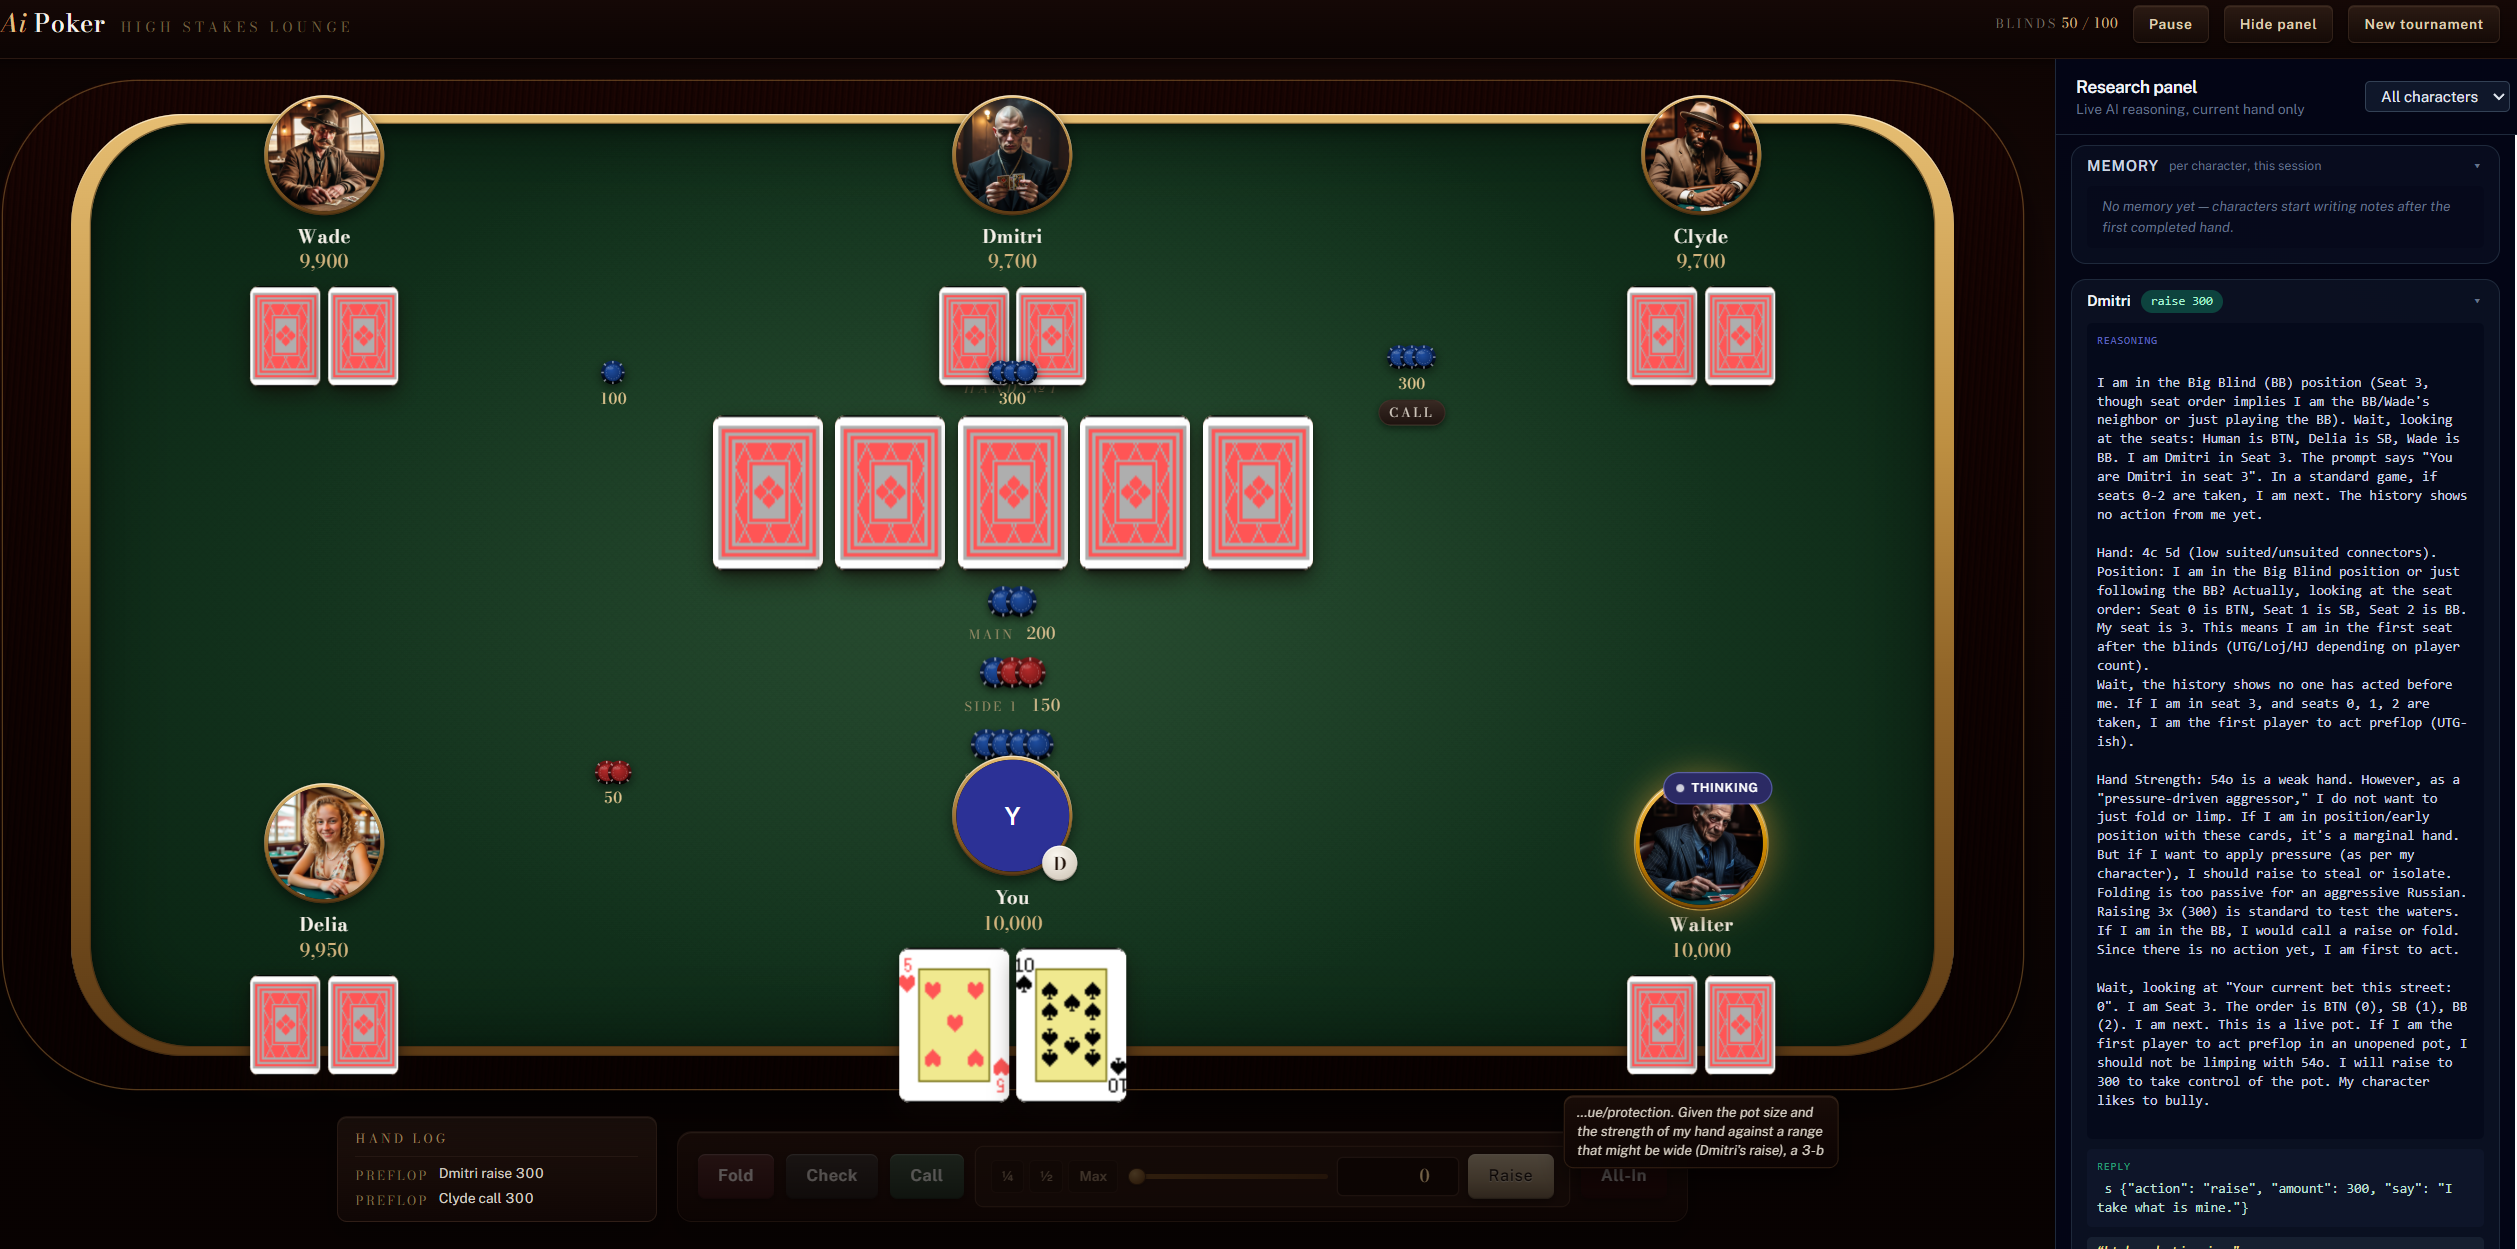
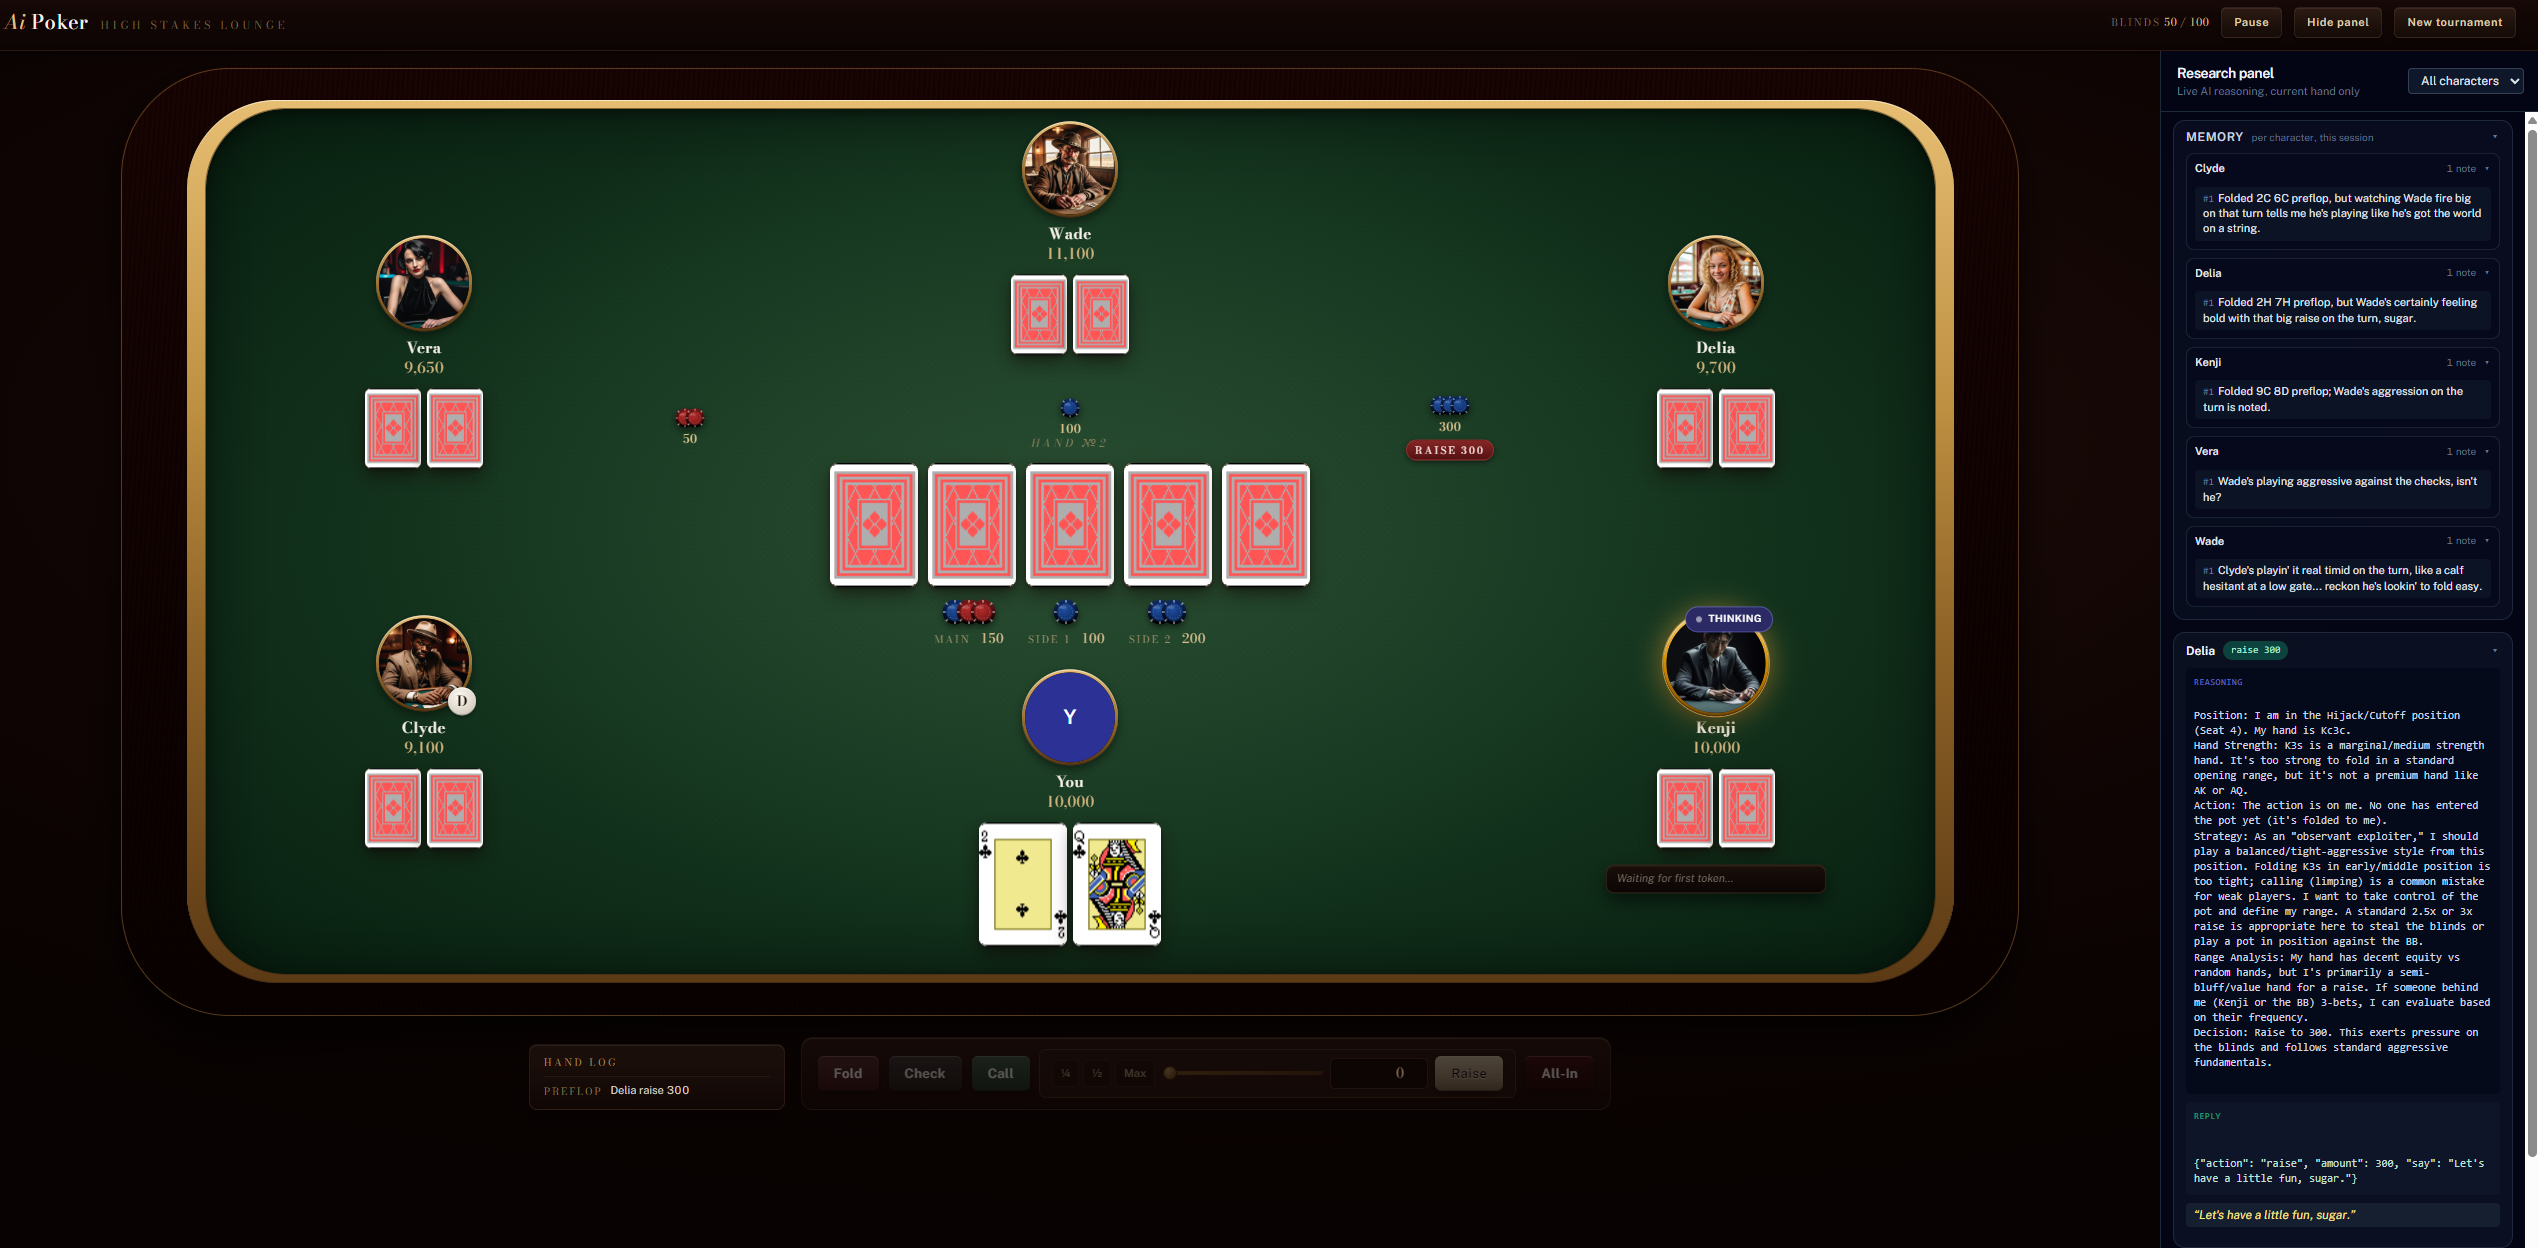
Redesign poker table layout to fix overlap and scaling
- Replace even-perimeter seat placement with hand-tuned presets
  for 2-10 players. Seats live only on the long top/bottom edges
  and short side edges — never in corners — modelled on real
  race-track casino tables. Each seat carries its own bet-chip
  position rather than computing it radially, so top-edge bets
  no longer collide with their own hole cards.
- Reserve the centre band (y ∈ [40, 64]) exclusively for the
  community cards, pot display, and winner banner. No seat or
  bet encroaches.
- Add uniform CSS-transform scaling driven by ResizeObserver:
  the inner table is laid out on a fixed 1900×950 canvas and
  scaled to fit. Cards, chips, portraits, and seat positions
  now shrink together on smaller viewports instead of fixed-
  pixel children overflowing a fluid container.
- PotDisplay: lay multiple pots out horizontally (flex-row,
  items-end) so main + side pots span the wide centre band
  instead of stacking downward into the bottom-centre seat.
- Update live-hand screenshot and README caption to reflect
  the new layout and the visible per-character Memory section.

diff --git a/src/components/Table.vue b/src/components/Table.vue
@@ -1,5 +1,5 @@
 <script setup>
-import { computed, ref, watch } from 'vue'
+import { computed, onBeforeUnmount, onMounted, ref, watch } from 'vue'
 import Seat from './Seat.vue'
 import Card from './Card.vue'
 import PotDisplay from './PotDisplay.vue'
@@ -24,68 +24,145 @@ const orderedPlayers = computed(() => {
   return [...players.slice(humanIdx), ...players.slice(0, humanIdx)]
 })
 
-// Place seats evenly around the perimeter of a rounded-rectangle table, with index 0
-// (the human) anchored at bottom-centre and remaining seats walking counter-clockwise.
-// Spacing is in *pixel* terms (vertical edges weighted by 1/ASPECT) so adjacent seats
-// land the same physical distance apart whether they're on a long edge or a short one.
-const SEAT_INSET = 16          // % from table edge to the seat arc on all sides
-const TABLE_ASPECT = 2         // table width / height — keep in sync with the aspect-[2/1] class
-function seatPos(index, total) {
-  const L = SEAT_INSET, R = 100 - SEAT_INSET, T = SEAT_INSET, B = 100 - SEAT_INSET
-  const horizHalf = (R - L) / 2          // bottom (and top) half-edge length in width-%
-  const vertEdge = (B - T) / TABLE_ASPECT // side length converted to width-equivalent %
-  const topEdge  = (R - L)
-  const perimeter = horizHalf * 2 + vertEdge * 2 + topEdge
-
-  const d = (index / total) * perimeter
-  let x, y
-  if (d <= horizHalf) {
-    // bottom edge, centre → left
-    x = 50 - d; y = B
-  } else if (d <= horizHalf + vertEdge) {
-    // left edge, bottom → top
-    x = L; y = B - (d - horizHalf) * TABLE_ASPECT
-  } else if (d <= horizHalf + vertEdge + topEdge) {
-    // top edge, left → right
-    x = L + (d - horizHalf - vertEdge); y = T
-  } else if (d <= horizHalf + vertEdge + topEdge + vertEdge) {
-    // right edge, top → bottom
-    x = R; y = T + (d - horizHalf - vertEdge - topEdge) * TABLE_ASPECT
-  } else {
-    // bottom edge, right → centre
-    x = R - (d - horizHalf - vertEdge - topEdge - vertEdge); y = B
-  }
-  return { x, y }
+// Hand-tuned seat layouts per player count, modelled on real race-track poker
+// tables: seats live only on the long top/bottom edges and the short side edges —
+// never in the corners — and the central band y ∈ [40, 64] is reserved for the
+// community cards, pot display, and winner banner. Each entry holds the seat
+// position (x, y), the bet-chip position (bx, by) placed between the seat and
+// that reserved centre band, and an anchor that drives speech-bubble direction.
+// Seat 0 is always the human at bottom-centre; remaining seats walk counter-
+// clockwise (bottom-left → left → top → right → bottom-right). All numbers are
+// percentages of the 1900×950 design canvas (see TABLE_W / TABLE_H below).
+const LAYOUTS = {
+  2: [
+    { x: 50, y: 78, bx: 50, by: 70, anchor: 'side' },
+    { x: 50, y: 18, bx: 50, by: 37, anchor: 'top'  },
+  ],
+  3: [
+    { x: 50, y: 78, bx: 50, by: 70, anchor: 'side' },
+    { x: 22, y: 22, bx: 34, by: 37, anchor: 'top'  },
+    { x: 78, y: 22, bx: 66, by: 37, anchor: 'top'  },
+  ],
+  4: [
+    { x: 50, y: 78, bx: 50, by: 70, anchor: 'side' },
+    { x: 14, y: 50, bx: 28, by: 50, anchor: 'side' },
+    { x: 50, y: 18, bx: 50, by: 37, anchor: 'top'  },
+    { x: 86, y: 50, bx: 72, by: 50, anchor: 'side' },
+  ],
+  5: [
+    { x: 50, y: 78, bx: 50, by: 70, anchor: 'side' },
+    { x: 18, y: 68, bx: 30, by: 64, anchor: 'side' },
+    { x: 24, y: 22, bx: 36, by: 37, anchor: 'top'  },
+    { x: 76, y: 22, bx: 64, by: 37, anchor: 'top'  },
+    { x: 82, y: 68, bx: 70, by: 64, anchor: 'side' },
+  ],
+  6: [
+    { x: 50, y: 78, bx: 50, by: 70, anchor: 'side' },
+    { x: 16, y: 70, bx: 30, by: 64, anchor: 'side' },
+    { x: 16, y: 30, bx: 30, by: 38, anchor: 'side' },
+    { x: 50, y: 18, bx: 50, by: 37, anchor: 'top'  },
+    { x: 84, y: 30, bx: 70, by: 38, anchor: 'side' },
+    { x: 84, y: 70, bx: 70, by: 64, anchor: 'side' },
+  ],
+  7: [
+    { x: 50, y: 78, bx: 50, by: 70, anchor: 'side' },
+    { x: 22, y: 72, bx: 33, by: 66, anchor: 'side' },
+    { x: 13, y: 44, bx: 25, by: 46, anchor: 'side' },
+    { x: 30, y: 20, bx: 38, by: 37, anchor: 'top'  },
+    { x: 70, y: 20, bx: 62, by: 37, anchor: 'top'  },
+    { x: 87, y: 44, bx: 75, by: 46, anchor: 'side' },
+    { x: 78, y: 72, bx: 67, by: 66, anchor: 'side' },
+  ],
+  8: [
+    { x: 50, y: 78, bx: 50, by: 70, anchor: 'side' },
+    { x: 22, y: 74, bx: 33, by: 67, anchor: 'side' },
+    { x: 12, y: 50, bx: 24, by: 50, anchor: 'side' },
+    { x: 22, y: 22, bx: 33, by: 38, anchor: 'top'  },
+    { x: 50, y: 18, bx: 50, by: 37, anchor: 'top'  },
+    { x: 78, y: 22, bx: 67, by: 38, anchor: 'top'  },
+    { x: 88, y: 50, bx: 76, by: 50, anchor: 'side' },
+    { x: 78, y: 74, bx: 67, by: 67, anchor: 'side' },
+  ],
+  9: [
+    { x: 50, y: 78, bx: 50, by: 70, anchor: 'side' },
+    { x: 25, y: 75, bx: 34, by: 68, anchor: 'side' },
+    { x: 13, y: 55, bx: 25, by: 53, anchor: 'side' },
+    { x: 14, y: 28, bx: 26, by: 38, anchor: 'side' },
+    { x: 36, y: 18, bx: 42, by: 37, anchor: 'top'  },
+    { x: 64, y: 18, bx: 58, by: 37, anchor: 'top'  },
+    { x: 86, y: 28, bx: 74, by: 38, anchor: 'side' },
+    { x: 87, y: 55, bx: 75, by: 53, anchor: 'side' },
+    { x: 75, y: 75, bx: 66, by: 68, anchor: 'side' },
+  ],
+  10: [
+    { x: 50, y: 78, bx: 50, by: 70, anchor: 'side' },
+    { x: 26, y: 75, bx: 34, by: 68, anchor: 'side' },
+    { x: 12, y: 56, bx: 24, by: 54, anchor: 'side' },
+    { x: 12, y: 32, bx: 24, by: 38, anchor: 'side' },
+    { x: 28, y: 19, bx: 36, by: 37, anchor: 'top'  },
+    { x: 50, y: 17, bx: 50, by: 36, anchor: 'top'  },
+    { x: 72, y: 19, bx: 64, by: 37, anchor: 'top'  },
+    { x: 88, y: 32, bx: 76, by: 38, anchor: 'side' },
+    { x: 88, y: 56, bx: 76, by: 54, anchor: 'side' },
+    { x: 74, y: 75, bx: 66, by: 68, anchor: 'side' },
+  ],
 }
 
-// Top-edge seats get the speech bubble flipped to below the portrait so it doesn't
-// fly off the table. Side and bottom seats keep the default above-portrait bubble.
+function getSeat(index, total) {
+  const layout = LAYOUTS[total] ?? LAYOUTS[10]
+  return layout[index] ?? layout[layout.length - 1]
+}
+
+function seatPos(index, total) {
+  const s = getSeat(index, total)
+  return { x: s.x, y: s.y }
+}
+
 function seatAnchor(index, total) {
-  const { y } = seatPos(index, total)
-  return y < 22 ? 'top' : 'side'
+  return getSeat(index, total).anchor
 }
 
 function seatStyle(index, total) {
-  const { x, y } = seatPos(index, total)
+  const s = getSeat(index, total)
   return {
-    left: `${x}%`,
-    top: `${y}%`,
+    left: `${s.x}%`,
+    top: `${s.y}%`,
     transform: 'translate(-50%, -50%)',
   }
 }
 
-// Bet chips sit between each seat and the table centre (along the radial),
-// so each player has their committed chips visible in front of them.
-const BET_RADIAL_OFFSET = 0.42 // 0 = at seat, 1 = at centre
 function betStyle(index, total) {
-  const { x, y } = seatPos(index, total)
-  const cx = 50, cy = 50
+  const s = getSeat(index, total)
   return {
-    left: `${x + (cx - x) * BET_RADIAL_OFFSET}%`,
-    top: `${y + (cy - y) * BET_RADIAL_OFFSET}%`,
+    left: `${s.bx}%`,
+    top: `${s.by}%`,
     transform: 'translate(-50%, -50%)',
   }
 }
+
+// Uniform scaling: the inner table is laid out on a fixed 1900×950 canvas and
+// scaled with a single CSS transform so every child (portraits, cards, chips)
+// shrinks together instead of overflowing the felt on smaller viewports.
+const TABLE_W = 1900
+const TABLE_H = 950
+const tableHostRef = ref(null)
+const tableScale = ref(1)
+let tableResizeObserver = null
+function updateTableScale() {
+  if (!tableHostRef.value) return
+  const rect = tableHostRef.value.getBoundingClientRect()
+  if (!rect.width || !rect.height) return
+  tableScale.value = Math.min(rect.width / TABLE_W, rect.height / TABLE_H)
+}
+onMounted(() => {
+  updateTableScale()
+  tableResizeObserver = new ResizeObserver(updateTableScale)
+  tableResizeObserver.observe(tableHostRef.value)
+})
+onBeforeUnmount(() => {
+  tableResizeObserver?.disconnect()
+  tableResizeObserver = null
+})
 
 function denominationFor(amount) {
   if (amount >= 1000) return 'black'
@@ -215,10 +292,24 @@ const winnerSummary = computed(() => {
 <template>
   <div class="relative h-full w-full">
     <!-- Table chrome: mahogany rail → brass outer rim → brass inner rim → felt.
-         Wider aspect (2:1) + larger max-w give 10-player tables enough horizontal room
-         for portraits, hole cards, chip stacks, and speech bubbles without crowding.
-         max-h caps the table so it still fits a typical 1080p viewport. -->
-    <div class="relative mx-auto aspect-[2/1] w-full max-w-[1900px] max-h-[920px]">
+         Outer host: an aspect-ratio box that fits the available width. The inner canvas
+         is a fixed 1900×950 layout that we scale uniformly via CSS transform, so cards,
+         chips, portraits, and seat positions all shrink together as the viewport shrinks
+         instead of children overflowing the felt. -->
+    <div
+      ref="tableHostRef"
+      class="relative mx-auto w-full"
+      :style="{ aspectRatio: `${TABLE_W} / ${TABLE_H}`, maxWidth: `${TABLE_W}px`, maxHeight: `${TABLE_H}px` }"
+    >
+      <div
+        class="absolute top-0 left-1/2"
+        :style="{
+          width: `${TABLE_W}px`,
+          height: `${TABLE_H}px`,
+          transform: `translateX(-50%) scale(${tableScale})`,
+          transformOrigin: 'top center',
+        }"
+      >
       <!-- Mahogany rail (outer ring) — now a rounded rectangle so the corners become
            usable felt area and seats can be spaced along straight edges for less crowding. -->
       <div class="wood-rail absolute inset-0 rounded-[110px] shadow-rail">
@@ -351,6 +442,7 @@ const winnerSummary = computed(() => {
             </div>
           </div>
         </Transition>
+      </div>
       </div>
     </div>
 

diff --git a/src/components/PotDisplay.vue b/src/components/PotDisplay.vue
@@ -27,7 +27,10 @@ function chipDenominationsFor(amount) {
 </script>
 
 <template>
-  <div class="flex flex-col items-center gap-2">
+  <!-- Lay pots out horizontally so multiple side pots use the wide centre band of the
+       felt instead of stacking downward and colliding with the bottom-centre (human)
+       seat. Each pot is still a vertical column of chips + label. -->
+  <div class="flex flex-row items-end justify-center gap-6">
     <div
       v-for="(pot, i) in pots"
       :key="i"
@@ -41,7 +44,7 @@ function chipDenominationsFor(amount) {
           :size="26"
         />
       </div>
-      <div class="num-tab font-display text-[13px] tracking-wide text-[oklch(0.82_0.07_82)]">
+      <div class="num-tab font-display text-[13px] tracking-wide text-[oklch(0.82_0.07_82)] whitespace-nowrap">
         <span class="uppercase text-[10px] tracking-[0.2em] text-[oklch(0.70_0.06_82/0.85)] mr-1.5">
           {{ pot.label ?? (i === 0 ? 'Pot' : `Side ${i}`) }}
         </span>

diff --git a/README.md b/README.md
@@ -9,8 +9,8 @@ The default model is now `gemma-4-26b-a4b-it-ultra-uncensored-heretic`, a non-re
 **Tournament setup** — pick your opponents, configure stacks and blind levels.
 ![Tournament setup screen with character roster and table configuration](docs/screenshots/01-setup.png)
 
-**Live hand** — six-handed table mid pre-flop. Dmitri (Russian oligarch, "pressure-driven aggressor") has just opened to 300; the Research Panel on the right shows his full `<think>` chain — position read, hand strength on 4c 5d, character-driven motivation, and the final structured reply `{"action": "raise", "amount": 300, "say": "I take what is mine."}` — streamed straight from the local model. Walter is the next AI to act (THINKING badge), and a fading speech bubble carries Dmitri's table talk while the hand log on the bottom-left tracks the action.
-![Live hand with streaming AI reasoning panel showing Dmitri's chain-of-thought and structured raise reply](docs/screenshots/02-play.png)
+**Live hand** — six-handed pre-flop. Seats sit along the long edges of a race-track felt, with each player's committed chips placed between their hole cards and the community area; multiple pots lay out horizontally so they never collide with the bottom-centre (human) seat. The Research Panel on the right streams the active AI's full `<think>` chain — position read, hand strength, character-driven motivation, and the final structured `{"action", "amount", "say"}` reply — straight from the local LM Studio model, while the **Memory** section above shows each character's running session notes (reads, grudges, tendencies) that get injected back into every subsequent turn's prompt.
+![Live hand with streaming AI reasoning panel and per-character session memory](docs/screenshots/02-play.png)
 
 ## Setup
 
